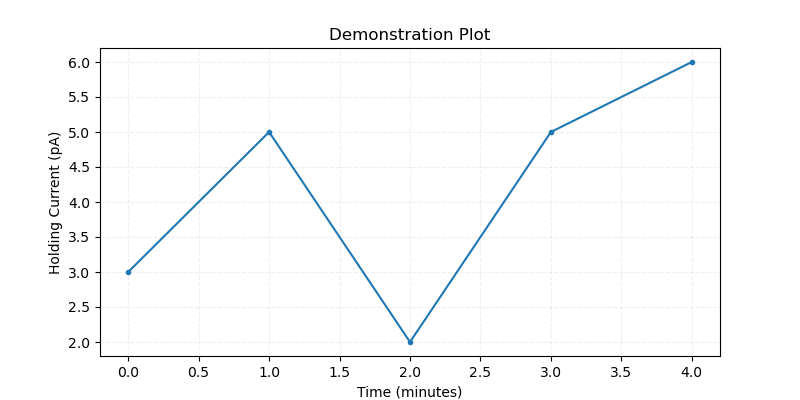
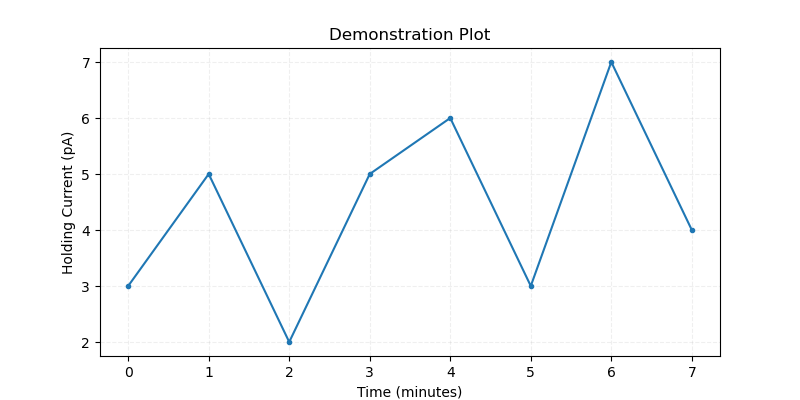
loading data and plotting
loaded data from a CSV file, and plotted a scatter plot with matplotlib.

diff --git a/dev/IholdingSlopeAnlysis/IholdingSlopeAnalysis.py b/dev/IholdingSlopeAnlysis/IholdingSlopeAnalysis.py
@@ -1,0 +1,22 @@
+import pandas as pd
+import matplotlib.pyplot as plt
+
+file="../../data/20817006.abf.csv"
+csvData = pd.read_csv(file,sep=",",skiprows=2) # read all the data except the title and unit rows
+
+times = csvData.iloc[:,0] # all rows from the first column
+
+currents = csvData.iloc[:,1] # all rows from the second column
+print("currents")
+
+# plot current-over-time figure
+plt.figure(figsize=(8, 4))
+plt.plot(times, currents, ".-")
+plt.title("Holding Current", fontsize=20)
+plt.ylabel("Holding Current (pA)", fontsize=12)
+plt.xlabel("Time (minutes)", fontsize=12)
+plt.grid(alpha=.2, ls='--')
+
+plt.savefig("Ihold.png")
+#plt.show()
+

diff --git a/dev/plotting/demo.py b/dev/plotting/demo.py
@@ -1,12 +1,14 @@
 import matplotlib.pyplot as plt
 
-currents = [3, 5, 2, 5, 6]
-times = [0, 1, 2, 3, 4]
+currents = [3, 5, 2, 5, 6, 3, 7, 4]
+times = [0, 1, 2, 3, 4, 5, 6, 7]
+
 plt.figure(figsize=(8, 4))
 plt.plot(times, currents, ".-")
 plt.title("Demonstration Plot")
 plt.ylabel("Holding Current (pA)")
 plt.xlabel("Time (minutes)")
 plt.grid(alpha=.2, ls='--')
-#plt.savefig("demo.png")
-plt.show()
+
+plt.savefig("demo.png")
+#plt.show()

diff --git a/dev/testing/test_analysis.py b/dev/testing/test_analysis.py
@@ -1,0 +1,10 @@
+import analysis
+
+def test_onePlusOneEqualsTwo():
+    result = analysis.addTwoNumbers(1, 1)
+    assert (result == 2)
+
+    
+def test_twoNegativeNumbers():
+    result = analysis.addTwoNumbers(-2, -3)
+    assert (result == -5)

diff --git a/dev/testing/analysis.py b/dev/testing/analysis.py
@@ -1,0 +1,2 @@
+def addTwoNumbers(a, b):
+    return a+b

diff --git a/dev/IholdingSlopeAnlysis/README.md b/dev/IholdingSlopeAnlysis/README.md
@@ -1,0 +1,4 @@
+**The ultimate goal for the code in this folder is to analyze the slope of a dataset (Current vs time in this case).**
+
+1. Plot a 2D scatter line plot
+![](Ihold.png)
